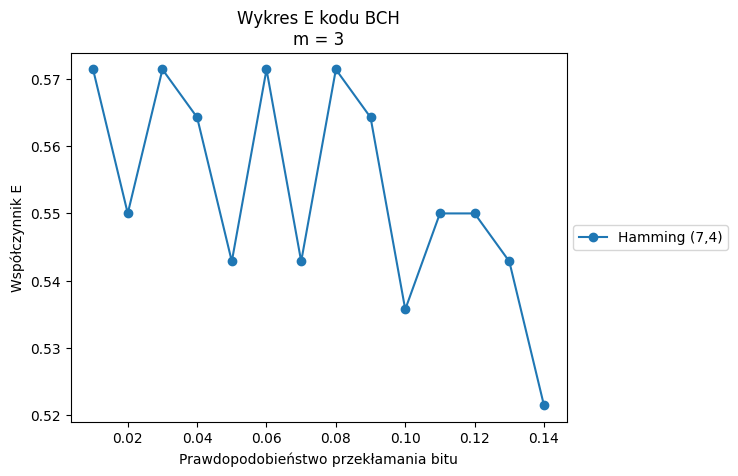
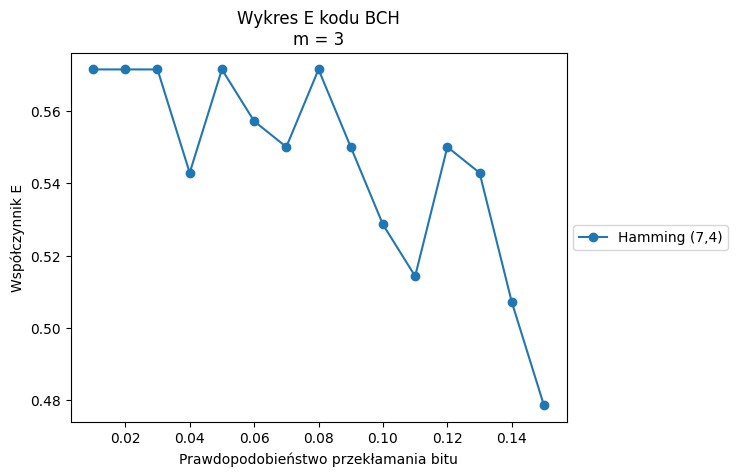
nowe wykresy 2

diff --git a/Etap2/Main.py b/Etap2/Main.py
@@ -55,13 +55,13 @@ console_info = False
 repeats = 20
 
 # zakres prawdopodobieństwa
-probability_range = np.arange(0.01, 0.15, 0.01)
+probability_range = np.arange(0.01, 0.16, 0.01)
 
 
 
 # porównanie BCH i potrajania
 m = 6
-t = 10
+t = 7
 ber_plot = Plot.Plot(f"Wykres BER - porównanie kodu BCH i potrajania", '', "BER", probability_range)
 e_plot = Plot.Plot(f"Wykres E - porównanie kodu BCH i potrajania", '', "E", probability_range)
 
